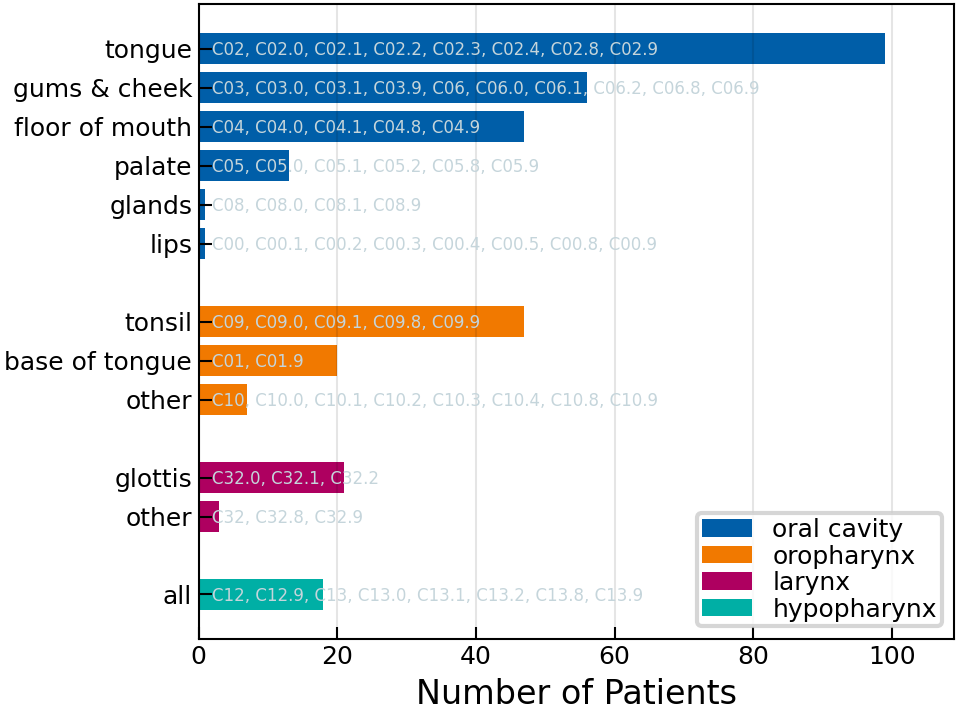
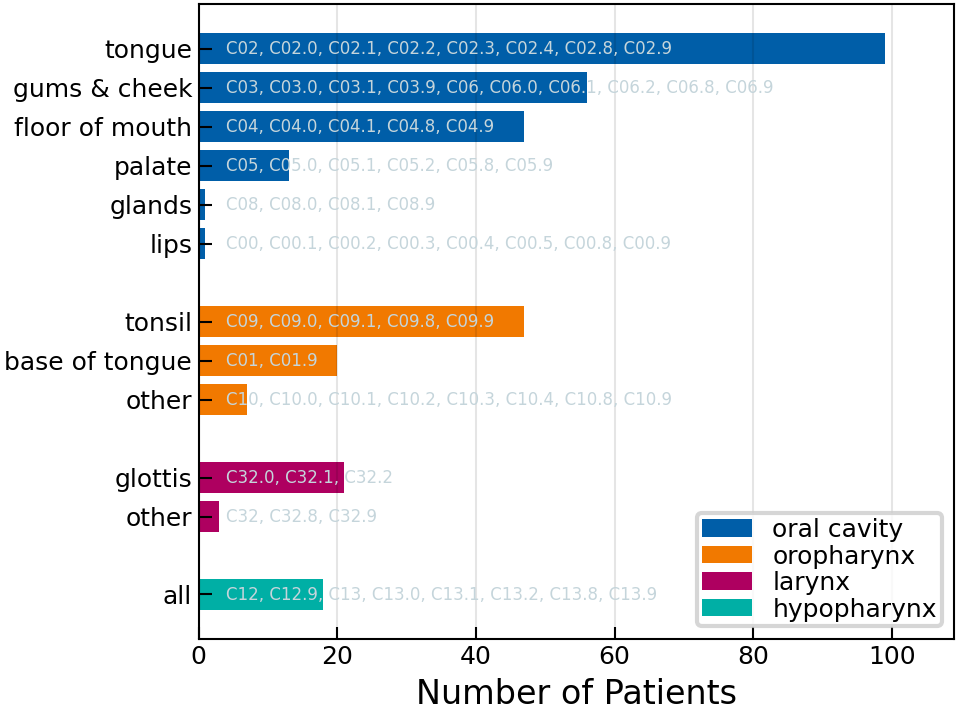
add ICD codes to subsite figures

diff --git a/scripts/subsite.py b/scripts/subsite.py
@@ -115,10 +115,11 @@ if __name__ == "__main__":
             location_values.append(count)
             labels.append(subsite)
             ax.text(
-                x=2,
-                y=cursor - 0.15,
+                x=4,
+                y=cursor,
                 s=", ".join(sorted(icds)),
                 fontsize=4,
+                verticalalignment="center",
                 color=COLORS["gray"],
             )
             cursor -= intra_loc_space
